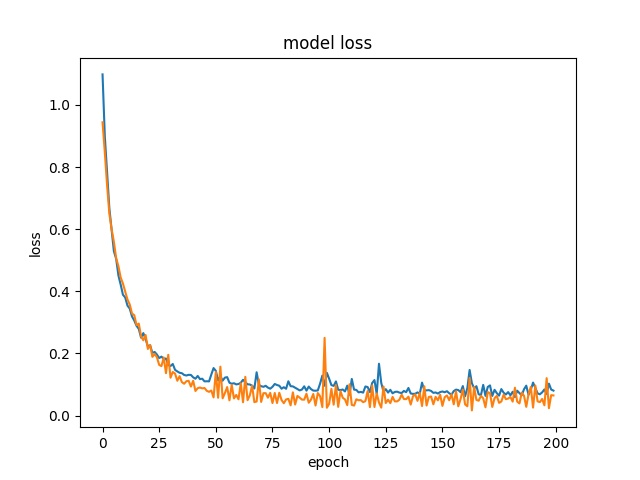
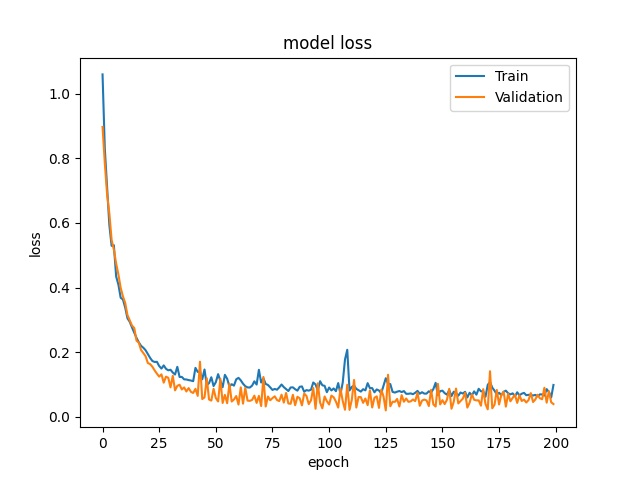
Committed 2021/05/07

diff --git a/Deep_learning_class_2021/Project1/Iris_NN3.py b/Deep_learning_class_2021/Project1/Iris_NN3.py
@@ -53,7 +53,7 @@ plt.title("model loss")
 plt.ylabel("loss")
 plt.xlabel("epoch")
 
-plt.legend
+plt.legend(["Train", "Validation"])
 
 plt.savefig("Iris.NNs.jpg")
 
